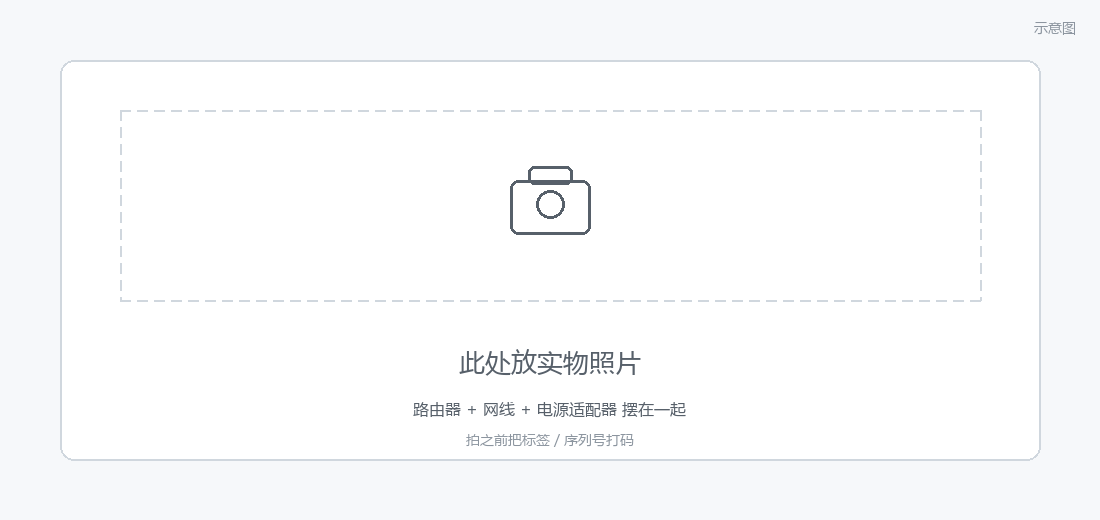
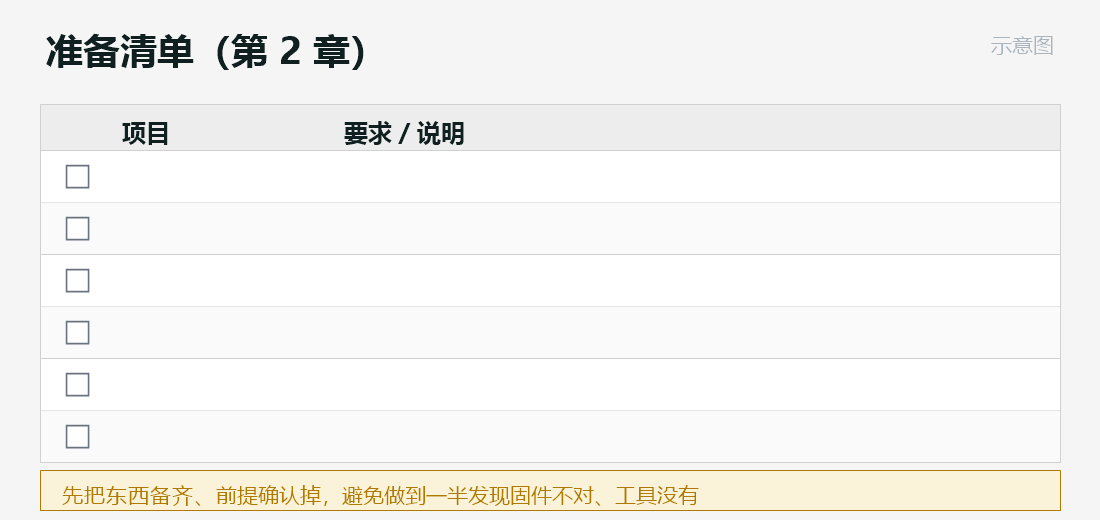
post: replace the two photo-placeholder cards with drawn schematics (network topology + checklist) and update their notes

diff --git a/_posts/2026-10-04-校园网折腾全记录.md b/_posts/2026-10-04-校园网折腾全记录.md
@@ -30,7 +30,7 @@ comments: true
 > 学校到底怎么检测多设备、又该怎么绕过去，一开始我只有个模糊的方向。后来在学长的博客里看到了思路，就用几天时间自己动手把整套东西做了一遍 —— 从「只会照着教程复制粘贴」到「能自己抓包看协议、自己写脚本」，中间踩了 15 个坑（真的数过）。这篇把整个过程完整写下来，既是给自己留个存档，也希望后来的人少走点弯路。
 
 ![宿舍路由器全貌（360T7 放在桌上）](/assets/img/posts/campus-network/图片占位-路由器全貌.png)
-<!-- 建议截图：你的路由器实物照（含网线 / 电源 / 摆放位置），不用拍很清晰，能看出是什么设备就行 -->
+<!-- 配图说明：宿舍网络连接示意图（墙上网口 → 360T7 路由器 → 电脑 / 手机 / 平板），用于说明整套方案里路由器所处的位置。如日后想换成你自己的路由器实物照，直接覆盖同名图片文件即可 -->
 
 **先给一句结论**：整套方案的核心只有一句话 —— **在宿舍路由器这一层，把所有设备的"身份特征"统一成同一个，让学校网关以为只有一台设备在上网。**
 
@@ -117,7 +117,7 @@ comments: true
 | 网络 | 路由器已能上网 | **先手动认证一次，确认能上网再动手** |
 
 ![准备清单实物（路由器 + 网线 + 电源）](/assets/img/posts/campus-network/图片占位-准备清单.png)
-<!-- 建议截图：路由器、网线、电源适配器摆在一起的照片 -->
+<!-- 配图说明：准备清单示意图（内容对应本章表格）。原计划的"路由器 + 网线 + 电源摆一起的照片"未使用；如日后想换成实物照片，直接覆盖同名图片文件即可 -->
 
 > **【提示】** 先做一件事：用网线或 WiFi 连上路由器，浏览器打开 `192.168.6.1`（360T7 刷 ImmortalWrt 后的默认地址），用 root 密码登录 LuCI 后台。后面的操作都在这里进行。
 
